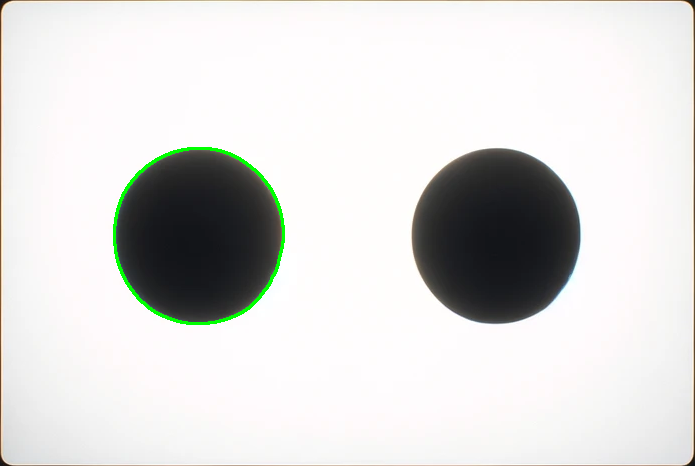
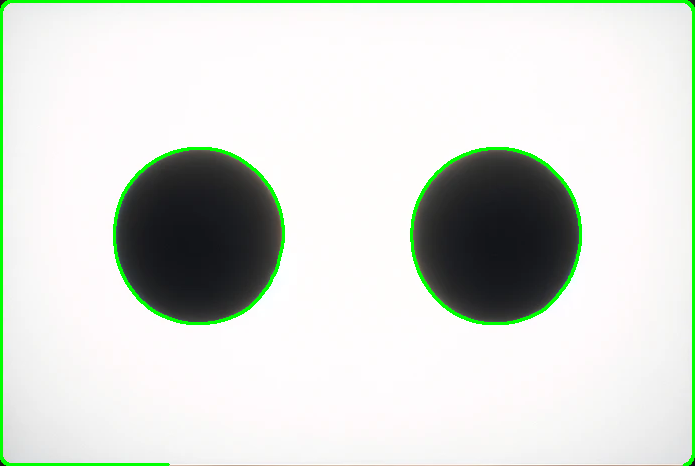
more edits

diff --git a/new_categorization.py b/new_categorization.py
@@ -20,13 +20,12 @@ edges = cv2.Canny(blurred, 50, 150)
 
 # Find contours
 contours, _ = cv2.findContours(edges.copy(), cv2.RETR_EXTERNAL, cv2.CHAIN_APPROX_SIMPLE)
-print(contours)
 
 # Find the largest contour
 largest_contour = max(contours, key=cv2.contourArea)
 
 # Draw the largest contour on the original image
-cv2.drawContours(image, [largest_contour], -1, (0, 255, 0), 2)
+cv2.drawContours(image, contours[0:3], -1, (0, 255, 0), 2)
 
 # Save the resulting image
 result_image_path = 'result_test.png'
@@ -39,7 +38,7 @@ cv2.imwrite(result_image_path, image)
 """
 # Inputting contours into neural circuit
 """
-
+"""
 # model implementation
 # Setting constants for the attentional model.
 # constants
@@ -93,9 +92,9 @@ stimulus_strength.append(stimulus_strength_dict[temp])
 temp = max(stimulus_strength_dict)
 stimulus_strength.append(stimulus_strength_dict[temp])
 
-"""
+
 TODO: scale stimulus accordingly
-"""
+
 stimulus_strength[1] = stimulus_strength[1]/1200
 stimulus_strength[0] = stimulus_strength[0]/1200
 
@@ -103,13 +102,12 @@ stimulus_strength[0] = stimulus_strength[0]/1200
 stimulus_1 = stimulus_strength[0]
 stimulus_2 = stimulus_strength[1]
 
-"""
+
 for testing purposes
-"""
-"""
+
 stimulus_1 = 9
 stimulus_2 = 10
-"""
+
 
 print('stimulus strength 1: {0}'.format(stimulus_1))
 print('stimulus strength 2: {0}'.format(stimulus_2))
@@ -153,3 +151,4 @@ for k in range(101):
    
 print('final excitatory unit 1 activity: {0}'.format(OT_t1_1))
 print('final excitatory unit 2 activity: {0}'.format(OT_t1_2))
+"""
